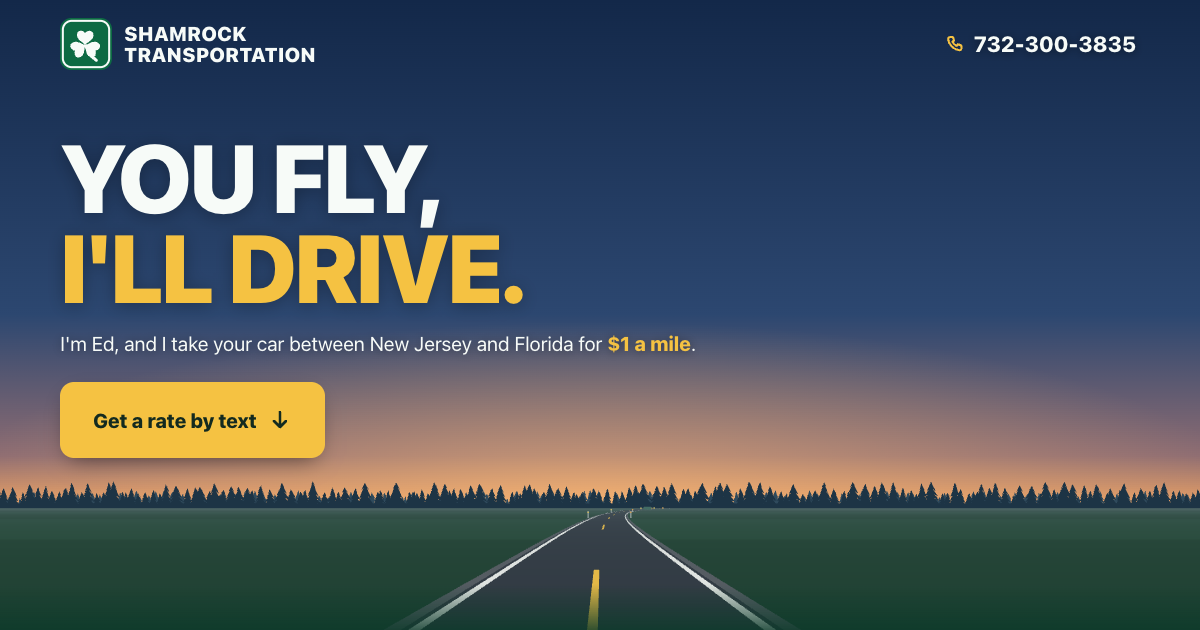
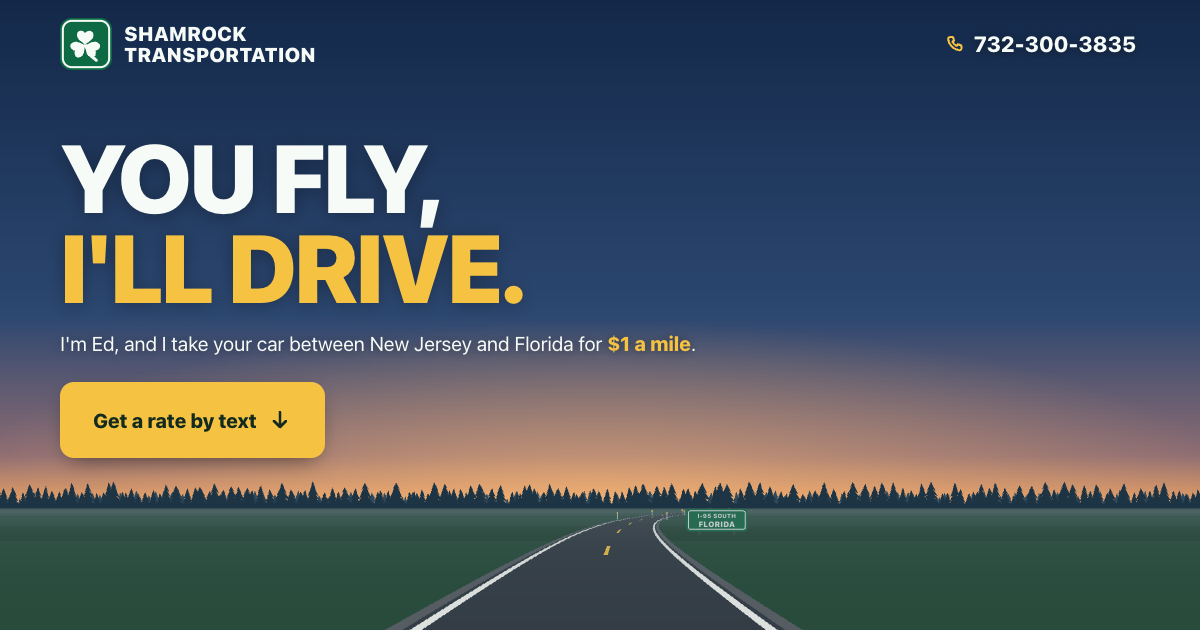
Road runs the whole page and scrolling drives it; sections are overhead road signs
Claude-Session: https://claude.ai/code/session_01H7VhvuU6x3qGzxsMHHhszH

Changed region(s): [[0.3083, 0.7841, 0.6783, 1.0]]

diff --git a/index.html b/index.html
@@ -80,9 +80,10 @@ section{position:relative}
 @media (max-width:339px){.brand{min-width:48px}.brand span{position:absolute;width:1px;height:1px;overflow:hidden;clip:rect(0 0 0 0)}}
 
 /* ============ HERO (dusk + the road, one still frame) ============ */
-.hero{min-height:max(640px,min(100svh,1000px));background:linear-gradient(180deg,var(--dusk-top) 0%,var(--dusk-mid) 40%,#5d4f63 56%,#284638 57%,#1a3d2c 100%);overflow:hidden;display:flex;flex-direction:column}
-.hero::after{content:"";position:absolute;left:0;right:0;bottom:0;height:56px;background:linear-gradient(180deg,rgba(12,58,42,0),var(--ground));pointer-events:none;z-index:1}
-.hero canvas{position:absolute;inset:0;width:100%;height:100%;display:block;pointer-events:none}
+.hero{min-height:max(640px,min(100svh,1000px));display:flex;flex-direction:column}
+/* the road runs behind the whole page; scrolling drives it (see the script) */
+#road{position:fixed;left:0;top:0;width:100%;height:100vh;display:block;pointer-events:none;z-index:0;background:linear-gradient(180deg,var(--dusk-top) 0%,var(--dusk-mid) 30%,#5d4f63 42%,#284638 43%,#1a3d2c 100%)}
+main,footer{position:relative;z-index:1}
 .hero-copy{position:relative;z-index:2;padding-top:96px;pointer-events:none}
 .hero-copy .btn,.hero-copy a{pointer-events:auto}
 .hero h1{text-transform:uppercase;font-size:clamp(3rem,14.5vw,6rem);line-height:.94;letter-spacing:-.025em;text-shadow:0 2px 18px rgba(0,0,0,.28)}
@@ -97,9 +98,15 @@ section{position:relative}
 /* ============ SIGN PANEL (guide-sign grammar) ============ */
 .sign{position:relative;background:var(--sign);border-radius:var(--radius);box-shadow:inset 0 0 0 7px var(--sign),inset 0 0 0 10px var(--white),0 18px 40px -18px rgba(0,0,0,.6);padding:26px 22px}
 
+/* ============ ROAD SIGNS (each section is an overhead sign on two posts) ============ */
+.stop{padding:40px 0 96px}
+.gantry{transform-origin:50% 100%}
+.gantry::before,.gantry::after{content:"";position:absolute;top:100%;width:12px;height:96px;background:linear-gradient(90deg,#4a5157,#8a9399 45%,#4a5157)}
+.gantry::before{left:12%}
+.gantry::after{right:12%}
+
 /* ============ MEET YOUR DRIVER ============ */
-.meet{padding:64px 0 0}
-.meet-photo{margin:26px 0 0;max-width:520px;aspect-ratio:4/3;display:grid;place-items:center;align-content:center;gap:10px;padding:22px;color:var(--ink-soft);font-size:18px;font-weight:700;text-align:center}
+.meet-photo{margin:26px 0 0;max-width:520px;aspect-ratio:4/3;display:grid;place-items:center;align-content:center;gap:10px;padding:22px;color:var(--ink-soft);font-size:18px;font-weight:700;text-align:center;background:rgba(8,42,30,.35);border:2px solid rgba(247,251,248,.35);border-radius:12px}
 .meet-photo svg{width:96px;height:96px}
 .meet-photo img{width:100%;height:100%;object-fit:cover;border-radius:12px}
 .meet-copy{margin-top:26px}
@@ -108,9 +115,8 @@ section{position:relative}
 .meet-copy .hi{font-size:22px;font-weight:800}
 
 /* ============ GET MY RATE ============ */
-.quote{padding:64px 0 60px}
 .quote h2{max-width:14ch}
-.quote form{margin-top:30px;padding:30px 22px 28px;display:grid;gap:22px}
+.quote form{margin-top:26px;display:grid;gap:22px}
 fieldset{border:0;margin:0;padding:0;min-width:0}
 legend,.lbl{display:block;font-weight:800;font-size:20px;margin-bottom:10px;padding:0}
 .chips{display:grid;gap:10px}
@@ -145,11 +151,10 @@ input:focus,textarea:focus{outline:3px solid var(--focus);outline-offset:2px}
 .sent pre{white-space:pre-wrap;font:inherit;margin:10px 0 0;color:var(--ink-soft)}
 
 /* ============ FAQ (answers always showing) ============ */
-.faq{padding:60px 0 48px;background:var(--concrete);color:var(--concrete-ink)}
 .qa{margin-top:24px}
-.qa > div{padding:20px 0;border-top:2px solid rgba(12,58,42,.18)}
+.qa > div{padding:20px 0;border-top:2px solid rgba(247,251,248,.22)}
 .qa h3{font-size:22px;font-weight:800;text-transform:none;letter-spacing:0;line-height:1.3}
-.qa p,.qa ul{margin-top:8px;font-size:19px;color:var(--concrete-soft);max-width:60ch}
+.qa p,.qa ul{margin-top:8px;font-size:19px;color:var(--ink-soft);max-width:60ch}
 .qa ul{padding-left:1.2em;margin-bottom:8px}
 .qa li{margin:4px 0}
 
@@ -176,11 +181,10 @@ footer .fine p + p{margin-top:6px}
   .promise{max-width:none}
   .hero-actions{grid-template-columns:auto;justify-content:start}
   .hero-actions .btn{padding:14px 30px}
-  .meet{padding:88px 0 0}
-  .quote{padding:88px 0 88px}
+  .stop{padding:56px 0 120px}
+  .gantry{padding:38px 36px}
+  .gantry::before,.gantry::after{height:120px;width:16px}
   .chips{grid-template-columns:1fr 1fr}
-  .quote form{padding:38px 36px;max-width:680px}
-  .faq{padding:88px 0 72px}
   footer{padding:80px 0 48px}
 }
 @media (min-width:1100px){
@@ -192,8 +196,8 @@ footer .fine p + p{margin-top:6px}
   .quote form{margin-top:8px;max-width:none}
   .row2{display:grid;grid-template-columns:1fr 1fr;gap:18px;align-items:end}
   .form-foot{grid-template-columns:auto 1fr;align-items:center;gap:22px}
-  .faq .wrap{display:grid;grid-template-columns:5fr 7fr;gap:56px}
-  .meet .wrap{display:grid;grid-template-columns:5fr 7fr;gap:0 56px;align-items:center}
+  .faq-sign{display:grid;grid-template-columns:5fr 7fr;gap:56px}
+  .meet-sign{display:grid;grid-template-columns:5fr 7fr;gap:0 56px;align-items:center}
   .meet h2{grid-column:1 / -1}
   .meet-photo{aspect-ratio:1/1}
   .meet-copy{margin-top:26px}
@@ -243,10 +247,10 @@ FINISH: unreviewed and undocumented is unfinished; this build ends with the fini
   </div>
 </header>
 
+<canvas id="road" aria-hidden="true"></canvas>
 <main id="top">
   <!-- ============ HERO ============ -->
   <section class="hero" id="hero" aria-labelledby="h1">
-    <canvas id="road" aria-hidden="true"></canvas>
     <div class="wrap hero-copy" id="heroCopy">
       <h1 id="h1"><span>You fly,</span> <span class="yl">I'll drive.</span></h1>
       <p class="promise">I'm Ed, and I take your car between New&nbsp;Jersey and Florida for <strong class="price">$1&nbsp;a&nbsp;mile</strong>.</p>
@@ -257,11 +261,12 @@ FINISH: unreviewed and undocumented is unfinished; this build ends with the fini
   </section>
 
   <!-- ============ MEET YOUR DRIVER ============ -->
-  <section class="meet" aria-labelledby="meet-h">
+  <section class="meet stop" aria-labelledby="meet-h">
     <div class="wrap">
+     <div class="sign gantry meet-sign">
       <h2 id="meet-h">Meet your driver</h2>
       <!-- PHOTO: replace the placeholder's contents with <img src="ed.jpg" alt="Ed Brannagan beside a car"> once Ed sends one. -->
-      <figure class="meet-photo sign">
+      <figure class="meet-photo">
         <svg viewBox="0 0 24 24" aria-hidden="true"><circle cx="12" cy="8" r="4" fill="none" stroke="currentColor" stroke-width="1.6"/><path d="M4 21c.8-4.2 4-6.5 8-6.5s7.2 2.3 8 6.5" fill="none" stroke="currentColor" stroke-width="1.6" stroke-linecap="round"/></svg>
         <figcaption>Photo of Ed coming soon</figcaption>
       </figure>
@@ -271,16 +276,18 @@ FINISH: unreviewed and undocumented is unfinished; this build ends with the fini
         <p>It never goes on a truck. It doesn't sit on an open carrier in the weather or get winched on and off a trailer.</p>
         <p>And you're not handing your keys to a stranger. You'll have my own number, and you can ask me anything before you hand them over.</p>
       </div>
+     </div>
     </div>
   </section>
 
   <!-- ============ GET MY RATE ============ -->
-  <section class="quote" id="quote" aria-labelledby="quote-h">
-    <div class="wrap quote-grid">
+  <section class="quote stop" id="quote" aria-labelledby="quote-h">
+    <div class="wrap">
+     <div class="sign gantry quote-grid">
       <div>
         <h2 id="quote-h">$1 a mile. That's the rate.</h2>
       </div>
-      <form class="sign" id="quoteForm" novalidate>
+      <form id="quoteForm" novalidate>
         <fieldset class="chips-wrap" id="tripSet" aria-describedby="tripErr">
           <!-- RATES: Ed charges $1 per mile (Ellie, 2026-10-15). -->
           <legend>Your trip</legend>
@@ -318,12 +325,14 @@ FINISH: unreviewed and undocumented is unfinished; this build ends with the fini
           <pre id="sentBody"></pre>
         </div>
       </form>
+     </div>
     </div>
   </section>
 
   <!-- ============ FAQ ============ -->
-  <section class="faq" aria-labelledby="faq-h">
+  <section class="faq stop" aria-labelledby="faq-h">
     <div class="wrap">
+     <div class="sign gantry faq-sign">
       <h2 id="faq-h">Straight answers</h2>
       <div class="qa">
         <div>
@@ -348,6 +357,7 @@ FINISH: unreviewed and undocumented is unfinished; this build ends with the fini
           <p>Otherwise your car, and everything in it, rides with me.</p>
         </div>
       </div>
+     </div>
     </div>
   </section>
 </main>
@@ -368,19 +378,22 @@ FINISH: unreviewed and undocumented is unfinished; this build ends with the fini
 
 <script>
 /* ============================================================
-   HERO ROAD: I-95 at dusk, seen from the driver's seat.
-   Drawn once as a still picture (no animation, by Ellie's call
-   for a 40-70 audience); redrawn only when the size changes.
+   THE ROAD: I-95 at dusk, seen from the driver's seat, behind the
+   whole page. Nothing moves on its own; scrolling drives it (Ellie,
+   2026-10-15): scroll down and the road flows away, the hero sign
+   and each section's overhead sign shrink toward the horizon;
+   scroll up and they come back. Reduced motion: one still frame.
    ============================================================ */
 (function(){
   var FRAME_TIME = 8;      /* picks the bend: change to reshape the road */
-  var FRAME_TRAVEL = 68;   /* picks where the posts and the sign sit */
+  var FRAME_TRAVEL = 94;   /* picks where the posts and the sign sit (the I-95 sign is 10 units ahead) */
   var BEND = 0.7;          /* how far the road bends at most */
   var HALF = 2.3;          /* road half-width, world units (two lanes) */
   var Z_FAR = 70, STRIPS_PHONE = 70, STRIPS_DESK = 110;
 
-  var hero = document.getElementById('hero'), cv = document.getElementById('road'),
-      copy = document.getElementById('heroCopy');
+  var cv = document.getElementById('road'), copy = document.getElementById('heroCopy'),
+      signs = [].slice.call(document.querySelectorAll('.gantry'));
+  var still = window.matchMedia && matchMedia('(prefers-reduced-motion: reduce)').matches;
   /* the snowbird season: north April to August, south the rest of the year */
   var MON = new Date().getMonth(), SIGN = (MON >= 3 && MON <= 7) ? ['I-95 NORTH', 'NEW JERSEY'] : ['I-95 SOUTH', 'FLORIDA'];
   var ctx = cv.getContext('2d'), FONT = getComputedStyle(document.body).fontFamily;
@@ -388,13 +401,10 @@ FINISH: unreviewed and undocumented is unfinished; this build ends with the fini
   var curve = 0, hill = 0, camX = 0, sway = 0, trees = [];
 
   function size(){
-    var r = hero.getBoundingClientRect();
-    var w = Math.round(r.width), h = Math.round(r.height);
-    var cr = copy.getBoundingClientRect();
-    horizon = Math.max(cr.bottom - r.top + 48, h * 0.42);
+    var w = cv.clientWidth, h = cv.clientHeight;
     if (w === W && h === H) return false;   /* phones fire resize when the address bar moves; don't rebuild */
-    /* drawn once, so use the screen's full sharpness, capped to keep the canvas within phone memory limits */
-    W = w; H = h; dpr = Math.min(3, window.devicePixelRatio || 1, Math.sqrt(8e6 / (W * H)));
+    /* redrawn while scrolling, so cap sharpness at 2x to keep it smooth on phones */
+    W = w; H = h; dpr = Math.min(2, window.devicePixelRatio || 1);
     cv.width = Math.round(W * dpr); cv.height = Math.round(H * dpr);
     ctx.setTransform(dpr, 0, 0, dpr, 0, 0);
     trees = []; var seed = 7;
@@ -418,7 +428,7 @@ FINISH: unreviewed and undocumented is unfinished; this build ends with the fini
   var HAZE = [92, 110, 116], VERGE_A = [26, 61, 44], VERGE_B = [31, 69, 50], ASPH = [46, 54, 63], ASPH_B = [50, 58, 67];
 
   /* Project a world point (x lateral, e elevation, z depth) to the screen. */
-  var R, S;
+  var R, S, RFIX = 400;
   function off(z){ var d = z - 1; return {x: curve * d * d * 0.018, y: hill * d * d * 0.0036}; }
   function px(x, z){ var o = off(z); return W / 2 + (x + o.x - camX) * S / z; }
   function py(e, z){ var o = off(z); return horizon + R * (1 - e) / z - o.y * R / z * 1; }
@@ -441,7 +451,7 @@ FINISH: unreviewed and undocumented is unfinished; this build ends with the fini
   function line(a, b, at, lw, fill){ quad(a.x + a.w * at, a.y, lw * S / a.z, b.x + b.w * at, b.y, lw * S / b.z, fill); }
 
   function draw(){
-    R = H - horizon; S = Math.min(W * .62, R * 1.55) / HALF;
+    R = RFIX; S = Math.min(W * .62, R * 1.55) / HALF;
     /* sky */
     var g = ctx.createLinearGradient(0, 0, 0, horizon);
     g.addColorStop(0, '#132849'); g.addColorStop(.62, '#2c4770'); g.addColorStop(.9, '#8d6c72'); g.addColorStop(1, '#eaa064');
@@ -483,7 +493,7 @@ FINISH: unreviewed and undocumented is unfinished; this build ends with the fini
     for (k = 1; k < rows.length; k++){
       var a = rows[k - 1], b = rows[k];
       if (b.y <= a.y) continue;
-      ctx.fillStyle = rgb(mix(Math.floor((b.z + travel) / 6) % 2 ? VERGE_A : VERGE_B, HAZE, b.fog));
+      ctx.fillStyle = rgb(mix((Math.floor((b.z + travel) / 6) % 2 + 2) % 2 ? VERGE_A : VERGE_B, HAZE, b.fog));
       ctx.fillRect(0, a.y, W, b.y - a.y + 1);
     }
     /* pass 2: shoulder and asphalt; pass 3: edge lines (white both sides) */
@@ -496,7 +506,7 @@ FINISH: unreviewed and undocumented is unfinished; this build ends with the fini
       line(a, b, .93, .07, rgb(mix([240, 242, 238], HAZE, b.fog * .8))); }
     /* yellow dashes between the lanes (Ellie, 2026-10-15): 1.2 on, 3.8 off, each one solid quad.
        DASH_SHIFT slides them toward the camera so one sits right in front (Ellie, 2026-10-15) */
-    var D = 5, DL = 1.2, DASH_SHIFT = 1.1, dt = travel + DASH_SHIFT, first = Math.floor((1 + dt) / D) * D;
+    var D = 5, DL = 1.2, DASH_SHIFT = .1, dt = travel + DASH_SHIFT, first = Math.floor((1 + dt) / D) * D;
     for (var dz = first; dz < dt + Z_FAR * .9; dz += D){
       var z1 = dz - dt + DL, z0 = dz - dt;
       if (z1 < .6) continue; z0 = Math.max(.6, z0);
@@ -508,7 +518,7 @@ FINISH: unreviewed and undocumented is unfinished; this build ends with the fini
     /* reflector posts and the odd guide sign along the right shoulder, far to near */
     var items = [];
     var postGap = 12, p0 = Math.ceil(travel / postGap) * postGap;
-    for (var d = p0 + Z_FAR * .8; d >= p0; d -= postGap){
+    for (var d = p0 + Z_FAR * .8; d > travel + 1.05; d -= postGap){
       var zz = d - travel; if (zz > 1.05) items.push({z:zz, sign:(Math.round(d / postGap) % 9 === 0)});
     }
     items.sort(function(a, b){ return b.z - a.z; });
@@ -545,11 +555,42 @@ FINISH: unreviewed and undocumented is unfinished; this build ends with the fini
 
   function roundRect(x, y, w, h, r){ ctx.beginPath(); ctx.moveTo(x + r, y); ctx.arcTo(x + w, y, x + w, y + h, r); ctx.arcTo(x + w, y + h, x, y + h, r); ctx.arcTo(x, y + h, x, y, r); ctx.arcTo(x, y, x + w, y, r); ctx.closePath(); }
 
-  /* the frame: a gentle right-hand bend with an I-95 sign coming up */
-  time = FRAME_TIME; travel = FRAME_TRAVEL;
-  function render(){ if (size() === false) return; drive(0); camX = curve * .15; draw(); }
-  render();
-  window.addEventListener('resize', render);
+  /* Scroll drives the scene. The horizon rides just under the hero copy, then
+     settles near the top so the road fills the screen. Scrolling down backs the
+     camera away (travel falls), so the road, the I-95 sign and the section signs
+     recede toward the horizon; scrolling up brings them back. */
+  var TOP = .16;       /* where the horizon settles, as a share of the screen height */
+  var START = .3;      /* signs start receding once their foot rises above this share of the road */
+  time = FRAME_TIME; drive(0); camX = curve * .15;
+  function frame(){
+    queued = false;
+    size();
+    var y = still ? 0 : window.scrollY || 0;
+    var cb = copy.getBoundingClientRect().bottom + (still ? window.scrollY || 0 : 0);
+    horizon = Math.max(cb + 48, H * TOP, H * .42 - y);
+    /* the camera keeps the scale it has at the top of the page, so the road only
+       slides up as the horizon rises; it never zooms */
+    RFIX = Math.max(H - Math.max(cb + y + 48, H * .42), H * .45);
+    var K = 1 / (START * START * RFIX);            /* world units per scrolled pixel, matched to the signs below */
+    travel = FRAME_TRAVEL - y * K;
+    draw();
+    /* each section is an overhead sign standing on the road: once its foot rises
+       above the start line it shrinks into the distance along the road */
+    var R0 = RFIX, yref = horizon + START * R0, L = yref - horizon, x0 = px(0, R0 / L);
+    signs.forEach(function(g){
+      var yn = g.parentNode.getBoundingClientRect().bottom;
+      if (still || yn >= yref){ if (g._s !== 1){ g.style.transform = ''; g.style.opacity = ''; g._s = 1; } return; }
+      var u = yref - yn, k = 1 / (1 + u / L), yv = horizon + L * k, dx = px(0, R0 / (L * k)) - x0;
+      g.style.transform = 'translate3d(' + dx.toFixed(1) + 'px,' + (yv - yn).toFixed(1) + 'px,0) scale(' + k.toFixed(4) + ')';
+      g.style.opacity = Math.max(0, Math.min(1, (k - .12) / .3)).toFixed(3);
+      g._s = k;
+    });
+  }
+  var queued = false;
+  function ask(){ if (!queued){ queued = true; requestAnimationFrame(frame); } }
+  frame();
+  window.addEventListener('resize', ask);
+  if (!still) window.addEventListener('scroll', ask, {passive: true});
 })();
 
 /* ============================================================

diff --git a/HANDOFF.md b/HANDOFF.md
@@ -3,18 +3,20 @@
 **Live:** https://10elizabethbell.github.io/shamrockTransparentPricing/ · **Repo:** https://github.com/10elizabethbell/shamrockTransparentPricing · **Built:** 2026-10-14 from Muse brief (run 2026-10-13, "Vibe 3 — Transparent pricing", approved by Ellie 2026-10-14)
 
 ## What's built
-- One short page, single `index.html`, no images in the page itself, no animation, ~36KB. The world is an interstate at dusk: guide-sign green panels with an inset white border, lane-line yellow for the call buttons, highway-concrete light section, dusk sky. The page ground is deep roadside green, not black.
+- One short page, single `index.html`, no images in the page itself, ~40KB. Nothing moves on its own; the road moves only while you scroll. The world is an interstate at dusk: guide-sign green panels with an inset white border, lane-line yellow for the call buttons, highway-concrete light section, dusk sky. The page ground is deep roadside green, not black.
 - **Simplified 2026-10-14 for a 40-70 audience (Ellie):** nothing moves, nothing to figure out, sections with little detail cut. Removed: the moving road dividers, the separate rate board, the "before you say yes" list, "Pack the car full", "How the trip goes", and the closing sign (its content now lives in the footer).
 - **Applied Ellie's 40-70 research brief (2026-10-14, `~/Downloads/NJ_Florida_Vehicle_Delivery_Website_Research_and_Design_Brief_Ages_40_to_70.pdf`):** full phone number in the header, mixed-case section headings (hero stays sign caps), "When" made optional in the form, and a "Who will I be dealing with?" answer naming Ed (now replaced by Meet your driver).
 - **Header:** shamrock and name on the left, the full number 732-300-3835 on the right (tap to call). On phones under 430px the name shrinks to 14px so the number fits; under 340px only the shamrock shows.
 - **Hero:** "You fly, I'll drive." (Ed's own line, Ellie's pick 2026-10-15; was "One rate. No surprises.") and "I'm Ed, and I take your car between New Jersey and Florida for $1 a mile." (the price in yellow) One button: Get a rate by text (yellow, scrolls to the form). The hero Call Ed button was removed 2026-10-15 (Ellie): the header number is the call action at the top; the footer still has a Call Ed button. Behind and below: a dusk view down I-95 (pines, reflector posts, a distant green sign) drawn once as a still picture.
   - History, all 2026-10-14: steerable animated road (first build) → self-driving calm road → replaced by a still guide-sign hero ("I'll drive your car. You fly.") → Ellie brought the road hero back, static. The sign hero is in git history (commit 1d0b58a) if wanted.
-- **No animation anywhere.** The road is drawn once on load (and again only if the window size changes); there's no animation loop. This overrides the pitch-site "signature motion" rule for this site, by Ellie's call. To pick a different still view, change `FRAME_TIME` (the bend) and `FRAME_TRAVEL` (where the posts and sign sit) at the top of the hero script.
+- **The road runs the whole page and scrolling drives it** (Ellie, 2026-10-15). The road canvas is fixed behind everything. Scroll down and the camera backs away: dashes, posts and the I-95 sign recede toward the horizon (the horizon rides under the hero copy, then settles near the top). Scroll up and it all comes back. Nothing moves without scrolling. Phones set to reduce motion get one still frame and no sign effects.
+- **Every section is an overhead road sign on two posts** spanning the road: Meet your driver, the $1-a-mile form, and Straight answers (the FAQ moved off the light concrete band onto a sign). When a sign's foot rises past about a third of the way down the road it shrinks into the distance along the road and fades; scrolling back brings it back full size. The form is full size while you're filling it in; it only shrinks once you've scrolled past it.
+- Tuning, at the top of the road script: `FRAME_TRAVEL` (where the I-95 sign sits at the top, now 10 units ahead), `FRAME_TIME` (the bend), and in the scroll code `TOP` (where the horizon settles, 16%) and `START` (where signs begin to recede, 30% of the road). Earlier history: the page was fully still from 2026-10-14 for the 40-70 audience; Ellie asked for this scroll-driven road on 2026-10-15.
 - **How it works was removed** (Ellie, 2026-10-15). It's in git history (commit 535ea56) if wanted.
 - **Pricing: $1 a mile** (Ellie, 2026-10-15). In the hero promise, the form heading "$1 a mile. That's the rate.", the meta description, and the pre-written text ("I'd like a price for my trip").
 - **Meet your driver** (Ellie, 2026-10-15), right after the hero: a photo frame (guide-sign panel with a person outline and "Photo of Ed coming soon"), then "Hi, I'm Ed Brannagan, owner and driver…", then three paragraphs on how Ed treats the car (rewritten 2026-10-15 at Ellie's ask): careful, steady, "straight to where you're going"; never on a truck, carrier or trailer; his own number, ask anything first. **Confirm with Ed** he's comfortable promising "straight to where you're going". Local / long distance / airport runs still appear in the FAQ and footer. To add the photo: replace the frame's contents with `<img src="ed.jpg" alt="…">` (`<!-- PHOTO -->` comment marks it); it fills the frame (4:3 on phones, square on desktop). The FAQ "Who will I be dealing with?" was removed since this section answers it.
 - **The form** (on a guide sign): four big trip choices (New Jersey to Florida, Florida to New Jersey, Florida airport run, Somewhere else), then when (optional), car and name. "Text this to Ed" opens a pre-written text to 732-300-3835, with a line under the button explaining exactly that. A fallback box shows the text if Messages doesn't open. There's also a "Call 732-300-3835" link beside the form.
-- **Straight answers:** four questions with the answers always showing (no tapping to open): packing the car full, airport runs, other routes, and when a truck carrier is the better call.
+- **Straight answers** (on a sign): four questions with the answers always showing (no tapping to open): packing the car full, airport runs, other routes, and when a truck carrier is the better call.
 - **Footer as the close:** shamrock, "You fly. I'll drive.", "I'm Ed Brannagan, owner and driver", a Call Ed button (shamrock green #178049 with white text, not yellow, by Ellie 2026-10-15), the card tagline, and the services line.
 - Favicon and iPhone icon: a shamrock on a guide-sign green tile. og:image is the hero at 1200x630.
 
